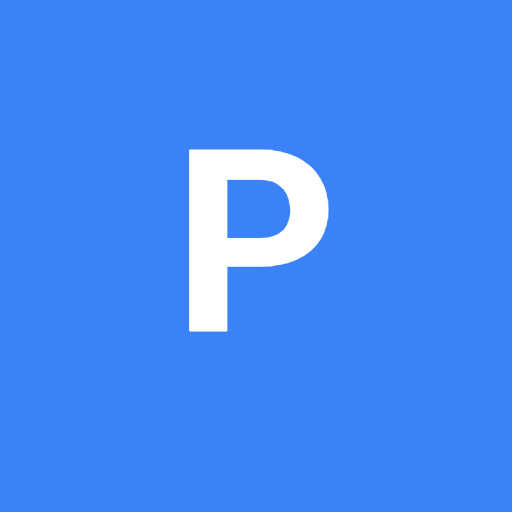
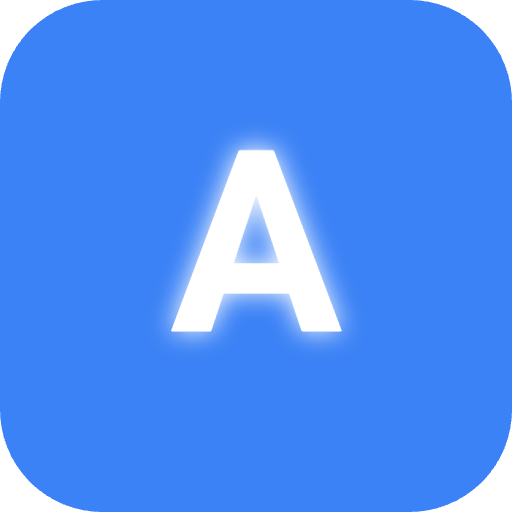
Add files via upload

diff --git a/index.html b/index.html
@@ -7,7 +7,7 @@
     <title>PWA Automator Pro - it.adi.p</title>
     
     <script src="https://cdn.tailwindcss.com"></script>
-    <script src="https://cdnjs.cloudflare.com/ajax/libs/jszip/3.10.1/jszip.min.js"></script>
+    <script src="./internal_assets/jszip.min.js"></script>
     <script src="https://unpkg.com/lucide@latest"></script>
     <script src="https://cdn.jsdelivr.net/npm/canvas-confetti@1.6.0/dist/confetti.browser.min.js"></script>
     
@@ -80,6 +80,10 @@
     <meta name="mobile-web-app-capable" content="yes">
     <meta name="apple-mobile-web-app-capable" content="yes">
     <meta name="apple-mobile-web-app-status-bar-style" content="black-translucent">
+
+<meta name="theme-color" content="#3b82f6">
+<link rel="manifest" href="./manifest.json">
+<link rel="apple-touch-icon" href="./icon-512.png">
 </head>
 <body class="text-slate-900 dark:text-slate-200 min-h-screen transition-colors duration-500 pb-24">
 
@@ -320,7 +324,7 @@
 
         // --- WORKER INITIALIZATION ---
         const workerCode = `
-            self.importScripts('https://cdnjs.cloudflare.com/ajax/libs/jszip/3.10.1/jszip.min.js');
+            self.importScripts('./internal_assets/jszip.min.js');
             
             self.onmessage = async function(e) {
                 const { appName, themeColor, exportFormat, buildMode, files, iconBlob, splashBlob, proxyUrl, useProxy, notifData } = e.data;
@@ -395,7 +399,22 @@
                         }
 
                         const swReg = \`<script>if('serviceWorker' in navigator) { window.addEventListener('load', () => { navigator.serviceWorker.register('\${rel}sw.js'); }); }<\/script>\`;
-                        content = content.replace(/<\\/head>/i, pwaMeta + '</head>').replace(/<\\/body>/i, swReg + pushScript + '</body>');
+                        content = content.replace(/<\\/head>/i, pwaMeta + '</head>').replace(/<\\/body>/i, swReg + pushScript + '<script>if('serviceWorker' in navigator) { window.addEventListener('load', () => { navigator.serviceWorker.register('./sw.js'); }); }</script>
+                            <script>
+                                if ('Notification' in window) {
+                                    Notification.requestPermission().then(permission => {
+                                        if (permission === 'granted') {
+                                            navigator.serviceWorker.ready.then(registration => {
+                                                registration.showNotification('ffy', {
+                                                    body: 'vgh',
+                                                    icon: './icon-512.png',
+                                                    vibrate: [200, 100, 200]
+                                                });
+                                            });
+                                        }
+                                    });
+                                }
+                            </script></body>');
                         sitemap += \`<url><loc>\${file.name}</loc></url>\\n\`;
                     }
 

diff --git a/sw.js b/sw.js
@@ -1,10 +1,1 @@
-
-                const CACHE_NAME='pwa_pro_by_adi-v1777395818767';
-                const ASSETS=["./","./manifest.json","./icon-512.png","./sw.js","./internal_assets/jszip.min.js","./internal_assets/confetti.browser.min.js","./index.html"];
-                self.addEventListener('install',e=>{e.waitUntil(caches.open(CACHE_NAME).then(c=>c.addAll(ASSETS)));self.skipWaiting();});
-                self.addEventListener('activate',e=>{e.waitUntil(caches.keys().then(keys=>Promise.all(keys.filter(k=>k!==CACHE_NAME).map(k=>caches.delete(k)))));self.clients.claim();});
-                self.addEventListener('fetch',e=>{e.respondWith(caches.match(e.request).then(res=>res||fetch(e.request))));
-                self.addEventListener('push', e => {
-                    const data = e.data ? e.data.json() : { title: 'PWA PRO BY ADI', body: 'New Update Available' };
-                    e.waitUntil(self.registration.showNotification(data.title, { body: data.body, icon: 'icon-512.png' }));
-                });
+const C='pwa-v3.2-1778389859112';const A=["./","./manifest.json","./icon-512.png","./splash-screen.png","./sw.js","./internal_assets/jszip.min.js"];self.addEventListener('install',e=>e.waitUntil(caches.open(C).then(c=>c.addAll(A))));self.addEventListener('fetch',e=>e.respondWith(caches.match(e.request).then(r=>r||fetch(e.request))));